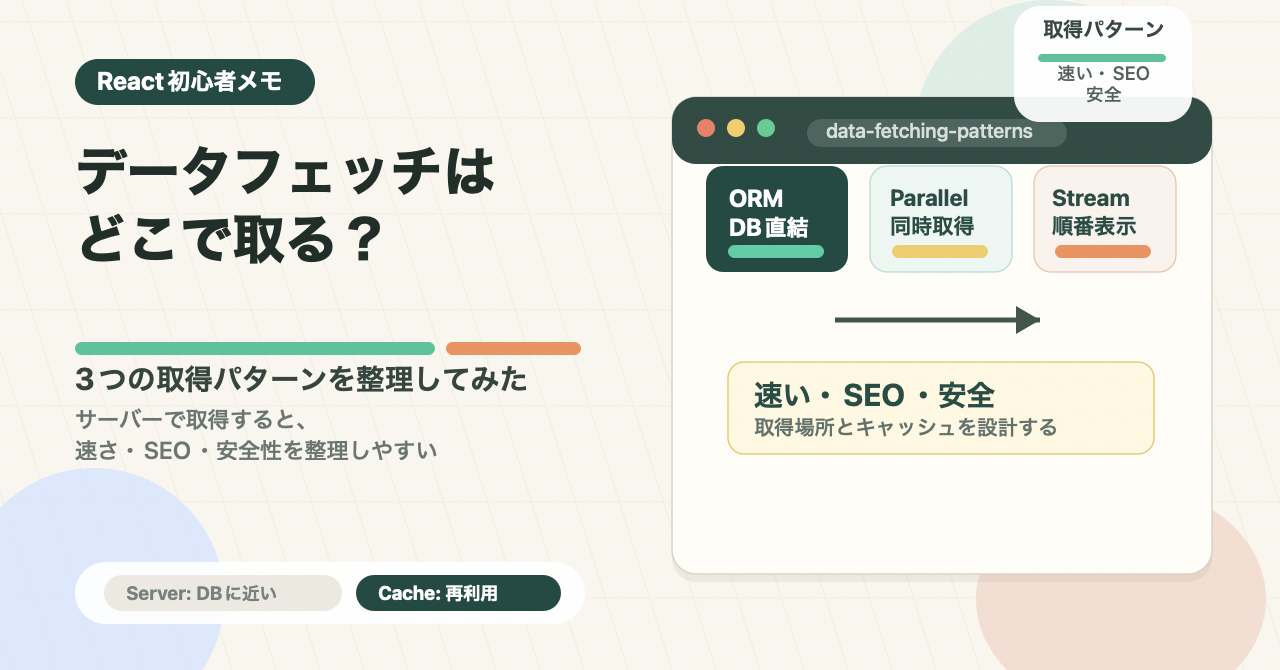
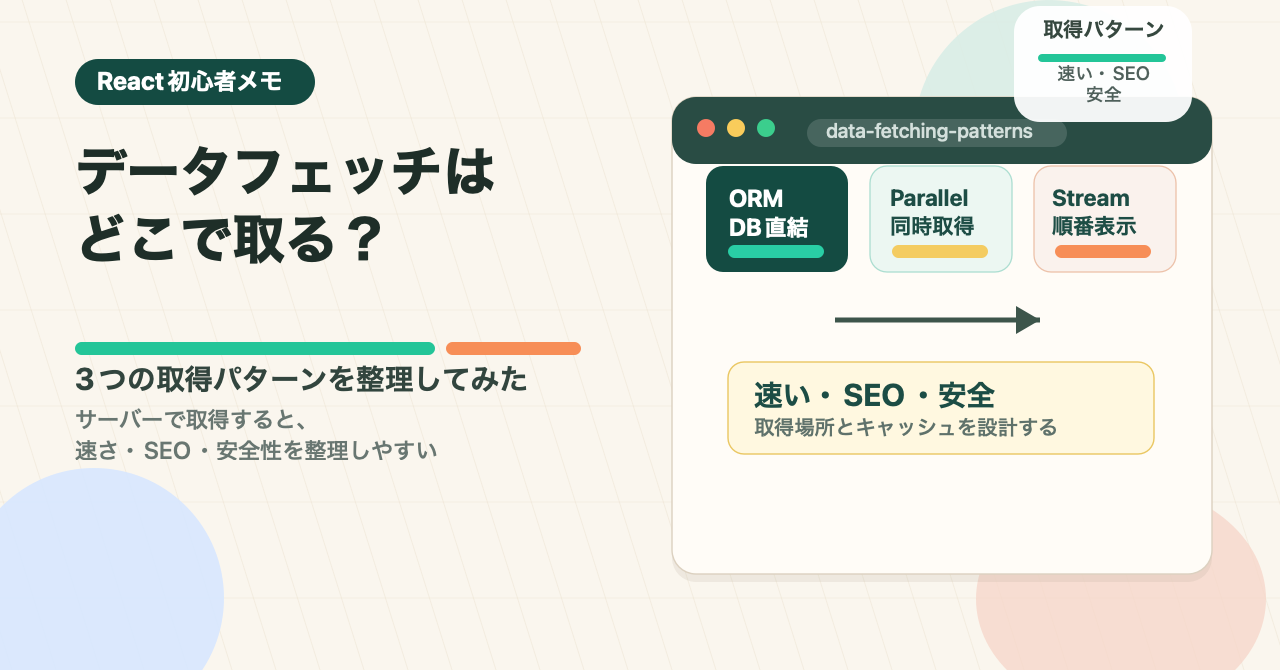
サムネ下部の補助ラベルを削除

diff --git a/scripts/render-note-thumbnail.swift b/scripts/render-note-thumbnail.swift
@@ -90,8 +90,6 @@ let mainTitle: String
 let subTitle: String
 let lead: String
 let topBadge: String
-let leftPill: String
-let rightPill: String
 let cardA: String
 let cardB: String
 let cardC: String
@@ -104,8 +102,6 @@ if isDataFetch {
     subTitle = "3つの取得パターンを整理してみた"
     lead = "サーバーで取得すると、\n速さ・SEO・安全性を整理しやすい"
     topBadge = "取得パターン"
-    leftPill = "Server: DBに近い"
-    rightPill = "Cache: 再利用"
     cardA = "ORM\nDB直結"
     cardB = "Parallel\n同時取得"
     cardC = "Stream\n順番表示"
@@ -117,8 +113,6 @@ if isDataFetch {
     subTitle = "RSCの使い分けを整理してみた"
     lead = "サーバーで動くものと、\nブラウザで動くものを分けて考える"
     topBadge = "判断基準"
-    leftPill = "Server: 取得・表示"
-    rightPill = "Client: 操作・Hooks"
     cardA = "Server\nComponent"
     cardB = "Client\nComponent"
     cardC = "Boundary\n境界を意識"
@@ -130,8 +124,6 @@ if isDataFetch {
     subTitle = "React初心者メモ"
     lead = "記事の要点を、\nあとから見返しやすく整理する"
     topBadge = "学習メモ"
-    leftPill = "Point: 仕組み"
-    rightPill = "Memo: つまずき"
     cardA = "Before\n疑問"
     cardB = "After\n整理"
     cardC = "Next\n深掘り"
@@ -165,10 +157,6 @@ roundedRect(CGRect(x: 446, y: 315, width: 135, height: 13), radius: 6.5, fill: c
 
 drawText(subTitle, rect: CGRect(x: 75, y: 266, width: 560, height: 44), size: 31, weight: .bold, color: color(0x26362f))
 drawText(lead, rect: CGRect(x: 75, y: 210, width: 560, height: 58), size: 24, weight: .medium, color: color(0x55635e), lineHeight: 31)
-
-roundedRect(CGRect(x: 75, y: 46, width: 510, height: 62), radius: 31, fill: .white.withAlphaComponent(0.92))
-drawPill(leftPill, rect: CGRect(x: 104, y: 59, width: 238, height: 36), fill: color(0xe9e4da), textColor: color(0x60706b), size: 19)
-drawPill(rightPill, rect: CGRect(x: 356, y: 59, width: 205, height: 36), fill: color(0x123b33), textColor: .white, size: 19)
 
 let windowRect = CGRect(x: 672, y: 96, width: 540, height: 477)
 roundedRect(windowRect.offsetBy(dx: 0, dy: -8), radius: 24, fill: color(0x9d907d, alpha: 0.16))
